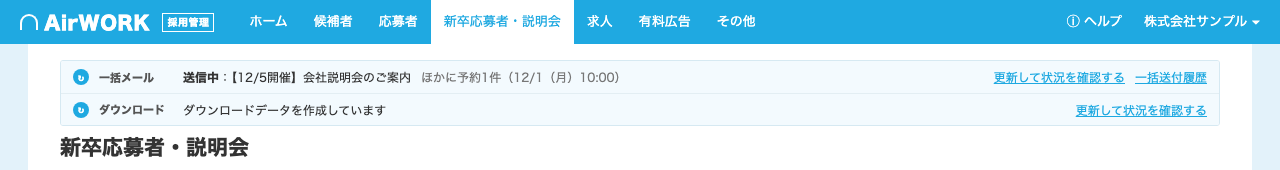
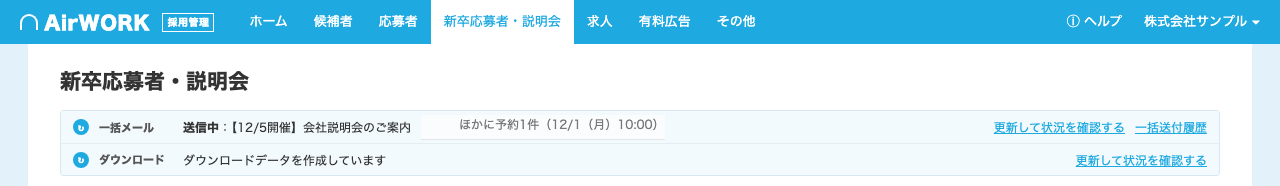
処理状況のアラートを画面タイトルの下に移す

diff --git a/style.css b/style.css
@@ -21,6 +21,7 @@ h1 { font-size: 21px; margin: 6px 0 22px; }
 /* アラート */
 .stat { margin: 0 0 6px; border: 1px solid #D6E9F2; border-radius: 3px; overflow: hidden; }
 .stat:empty { display: none; }
+h1 + .stat { margin: -10px 0 16px; }
 .sl { height: 32px; display: flex; align-items: center; gap: 10px; padding: 0 12px; font-size: 12px; white-space: nowrap; }
 .sl + .sl { border-top: 1px solid #E3EEF3; }
 .sl .ic { width: 16px; height: 16px; border-radius: 50%; color: #fff; font-size: 10px; font-weight: 700; display: inline-flex; align-items: center; justify-content: center; flex: none; }

diff --git a/index.html b/index.html
@@ -16,8 +16,8 @@
   </div>
 
   <div class="page">
-    <div class="stat" id="alerts"></div>
     <h1>新卒応募者・説明会</h1>
+    <div class="stat" id="alerts"></div>
     <div class="tabs"><span class="on">応募者一覧</span><span>説明会求人一覧</span></div>
 
     <div class="stick" id="stick">
